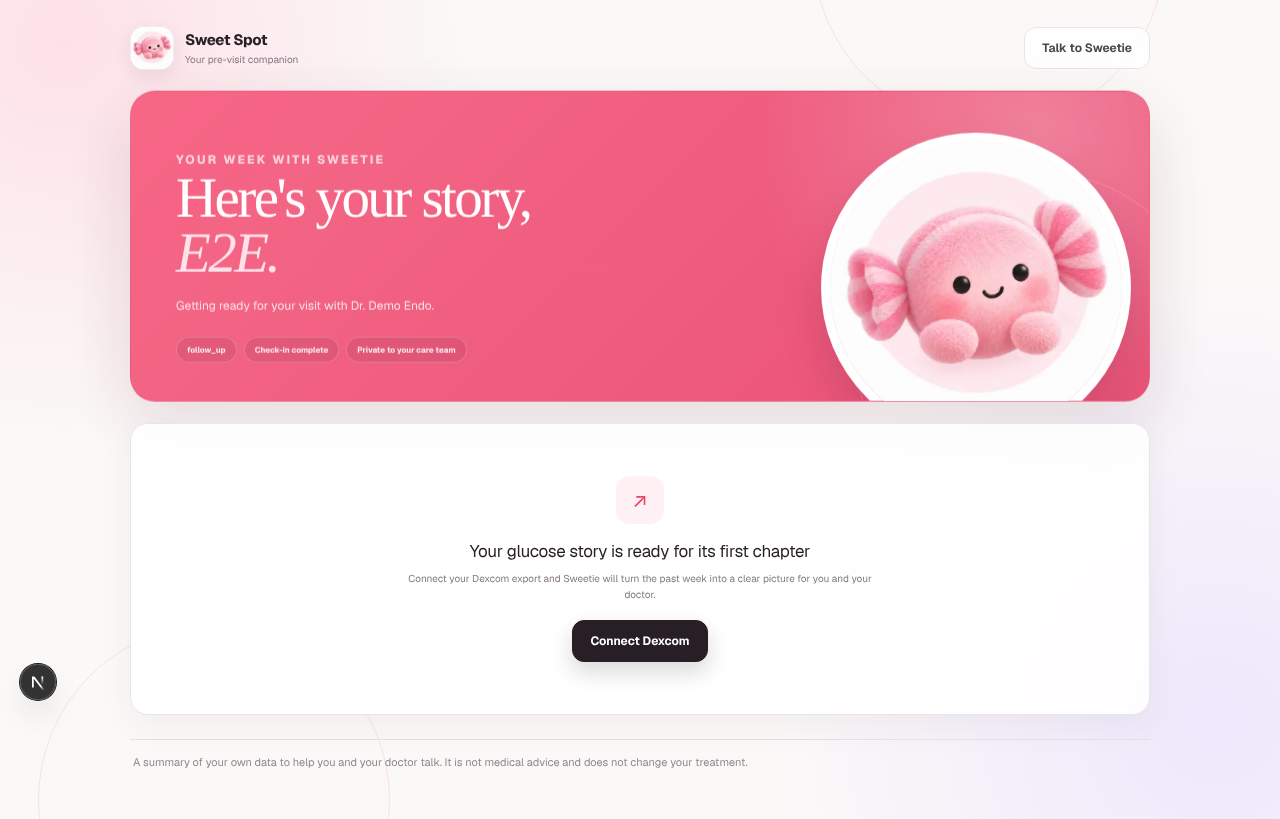
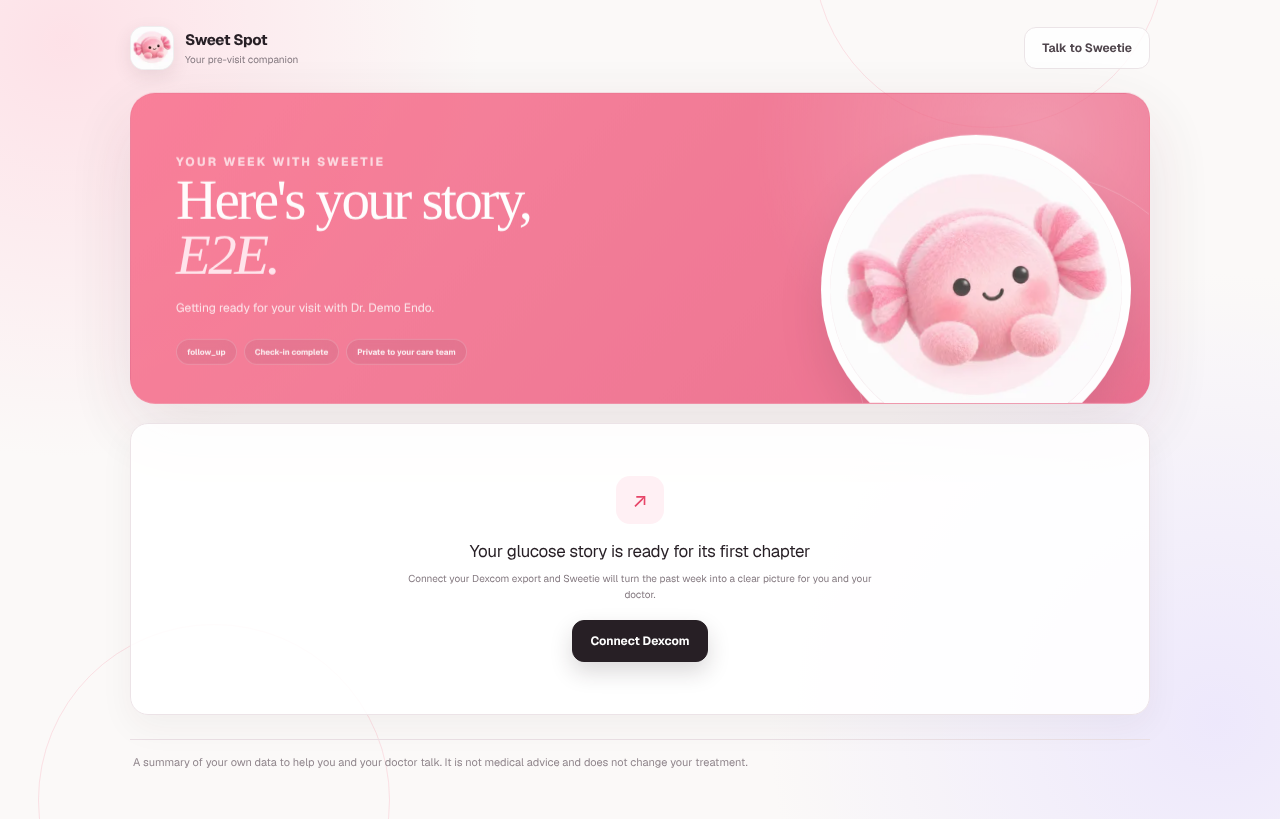
T01: run e2e against a production build, not next dev
CI named the cause the local runs could only guess at. The dev server
logged 'SyntaxError: Unexpected end of JSON input ... page:
/api/provider' — its own manifest read losing a race with a compile
triggered by another route — and served an HTML error page, which the
test saw as 'Unexpected token <'. That rules out both earlier theories:
the route had already been warmed when it failed, and CI runs one
worker, so it is not concurrency between tests. The warm-up added for
those theories is removed with them.

'next start' serves a finished build, so there is no compile to race
with. Wall time is unchanged, since the build only moves the compiling
out of the tests: each test drops from 13-15s to 1-5s. The screenshots
lose the dev overlay badge as a side effect.

Claude-Session: https://claude.ai/code/session_01QpTZAedMgtr5UDtFSkSUht

Changed region(s): [[0.0938, 0.0916, 0.9062, 0.5189], [0.0, 0.7937, 0.0625, 0.8547]]

diff --git a/playwright.config.ts b/playwright.config.ts
@@ -1,7 +1,15 @@
 import { defineConfig, devices } from "@playwright/test";
 
-// E2E runs against a dev server on port 3100 with a throwaway Postgres database and the model disabled (scripted mode),
-// so results are deterministic. scripts/agent-check.sh sets the environment and seeds data before running this.
+// E2E runs against a production build on port 3100 with a throwaway Postgres database and the model disabled
+// (scripted mode), so results are deterministic. scripts/agent-check.sh sets the environment and seeds data first.
+//
+// A build, not `next dev`, because `next dev` compiles a route the first time it is asked for and that made the
+// suite fail roughly one run in three. The failure CI caught names the cause: the dev server logged
+// `SyntaxError: Unexpected end of JSON input ... page: '/api/provider'` — its own manifest read losing a race with
+// a compile triggered by another route — and served an HTML error page, which the test saw as
+// "Unexpected token '<' ... is not valid JSON". Warming the routes first does not help, since the route had
+// already been warmed when it failed, and CI runs one worker, so it is not concurrency between tests either.
+// `next start` serves a finished build, so there is no compile to race with.
 const PORT = Number(process.env.E2E_PORT ?? 3100);
 // scripts/agent-check.sh sets PW_CHROMIUM_PATH when the Playwright CDN is blocked but a Chromium is pre-installed.
 const launchOptions = process.env.PW_CHROMIUM_PATH ? { executablePath: process.env.PW_CHROMIUM_PATH } : {};
@@ -10,7 +18,6 @@ export default defineConfig({
   testDir: "./e2e",
   timeout: 60_000,
   retries: 0,
-  globalSetup: "./e2e/global-setup.ts",
   reporter: [["list"], ["html", { open: "never", outputFolder: "e2e/report" }]],
   use: {
     baseURL: `http://localhost:${PORT}`,
@@ -23,10 +30,10 @@ export default defineConfig({
     { name: "mobile", use: { ...devices["Pixel 7"] } }, // Chromium-based phone profile; only Chromium is installed in CI and the sandbox
   ],
   webServer: {
-    command: `npx next dev -p ${PORT}`,
+    command: `npm run build && npx next start -p ${PORT}`,
     url: `http://localhost:${PORT}/api/health`,
     reuseExistingServer: !process.env.CI,
-    timeout: 120_000,
+    timeout: 300_000, // the build is most of this; it takes about a minute here
     env: { ...process.env, PORT: String(PORT), OPENAI_API_KEY: "", APP_URL: `http://localhost:${PORT}` },
   },
 });

diff --git a/e2e/flows.spec.ts b/e2e/flows.spec.ts
@@ -7,8 +7,8 @@ const shot = async (page: Page, name: string) => {
   await page.screenshot({ path: `e2e/screenshots/${test.info().project.name}-${name}.png`, fullPage: true });
 };
 
-// Waits for a client fetch to paint, not for app logic. Against `next dev` the first one on a cold build can sit
-// behind a compile for well over the 5s default, so these get their own budget.
+// Waits for a client fetch to paint, not for app logic: the page renders its shell first and fills in after. A
+// slow runner can take longer than the 5s default to come back, so these get their own budget.
 const LOADED = { timeout: 30_000 };
 
 test("landing renders", async ({ page }) => {
